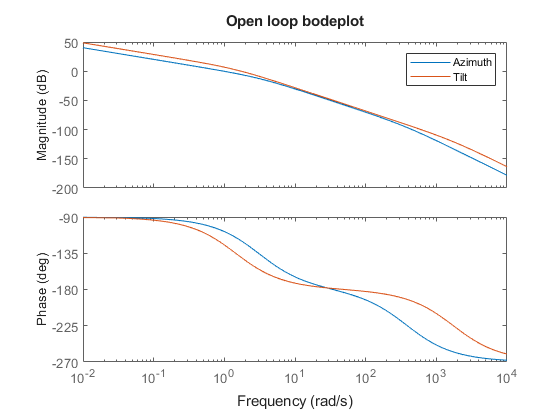
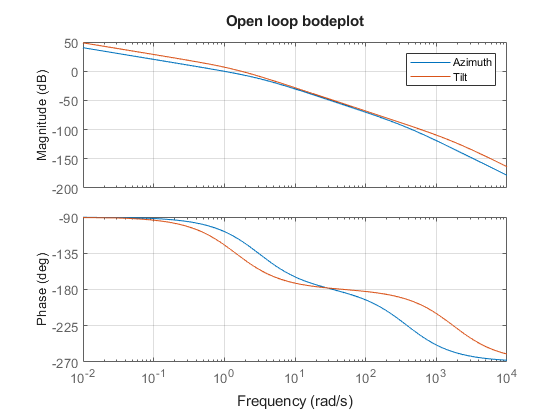
Bodeplot/stepresponse updated to include grid and target
For controller

diff --git a/04 Prototype udvikling/2 akset rotation/08 Control/matlab.m b/04 Prototype udvikling/2 akset rotation/08 Control/matlab.m
@@ -11,6 +11,7 @@ figure;
 bode(sys_azi, sys_tilt)
 title('Open loop bodeplot');
 legend('Azimuth', 'Tilt');
+grid("on");
 
 %% zoomed bodeplot
 
@@ -28,6 +29,7 @@ xlim(phaseAx, [1 15]);
 ylim(phaseAx, [-180,-90]);
 title("Open loop zoomed")
 legend('Azimuth', 'Tilt');
+grid("on");
 
 
 %% P-controller
@@ -39,8 +41,15 @@ CL_tilt=(d_tilt*sys_tilt)/(1+d_tilt*sys_tilt);
 
 figure;
 step(CL_azi, CL_tilt, RespConfig('StepAmplitude', 90));
+hold on
+t_limits = get(gca, 'XLim'); 
+plot(t_limits, [90 90], 'Color', [0.5 0.5 0.5])
+
 title('Closed loop step response');
-legend('Azimuth', 'Tilt');
+legend('Azimuth', 'Tilt', 'Target');
+grid("on")
+
+hold off
 
 %% time until accurate within specs - Kindly sponsered by ChatGPT
 
